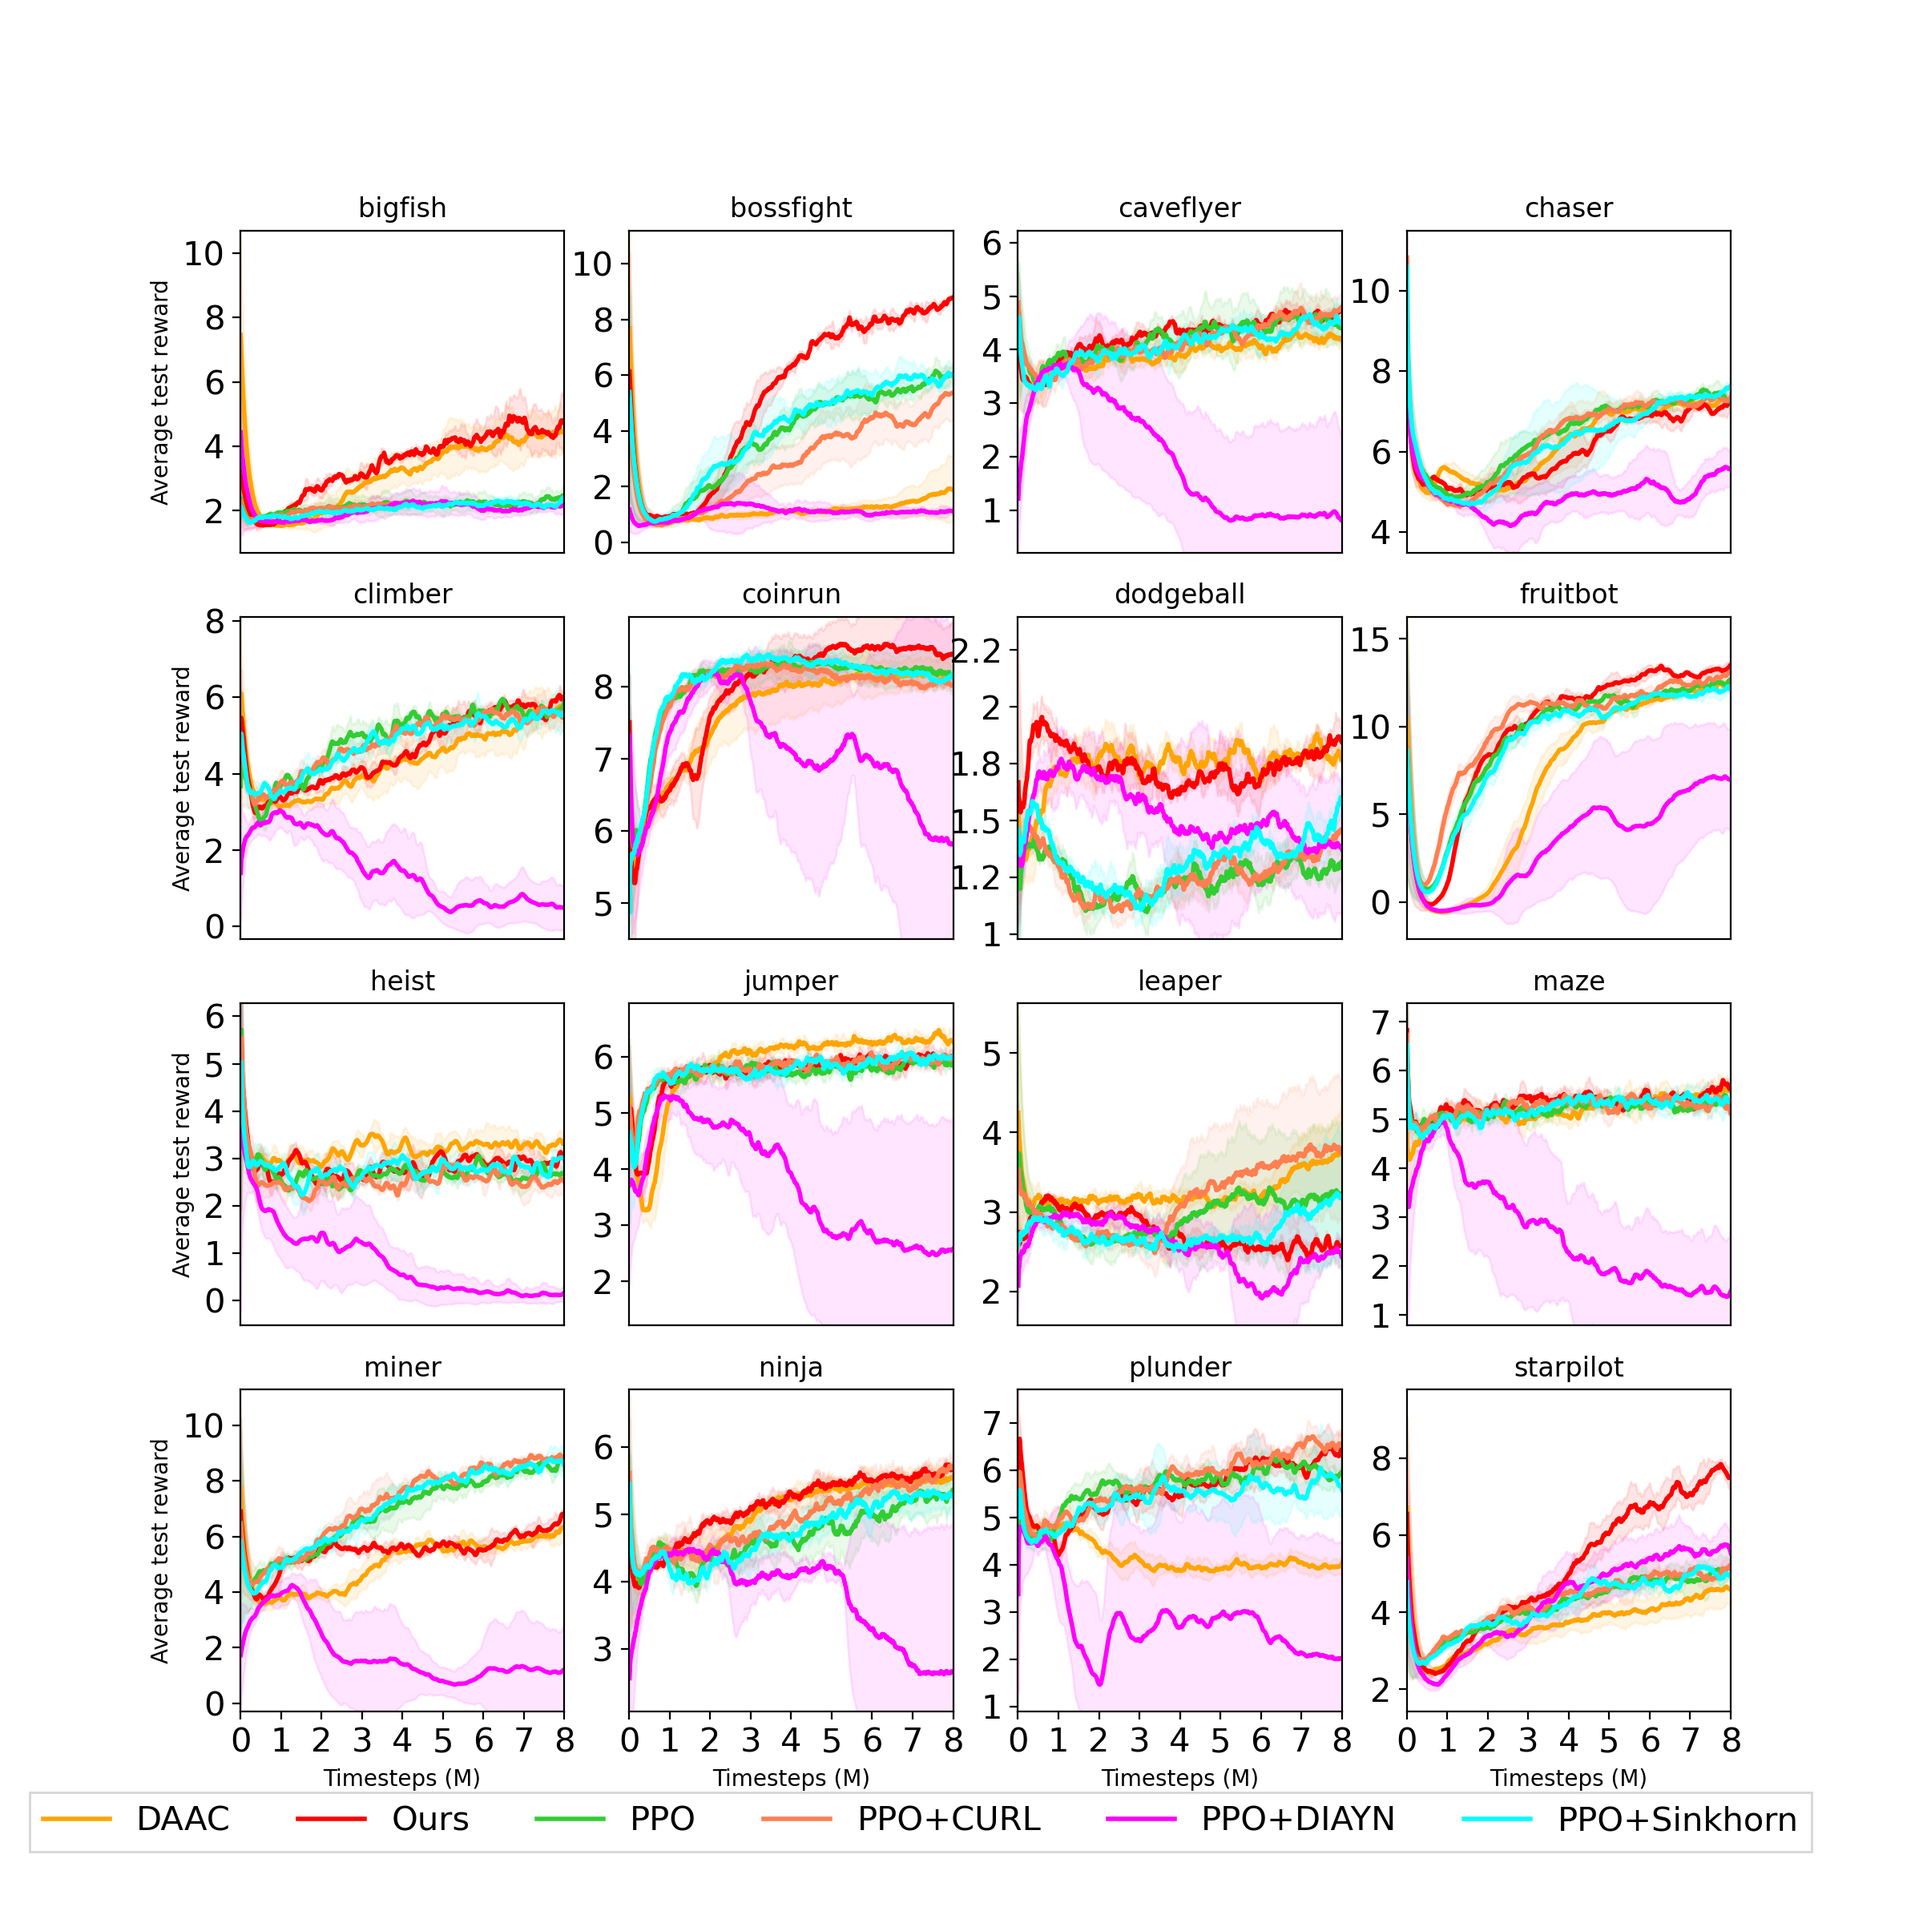
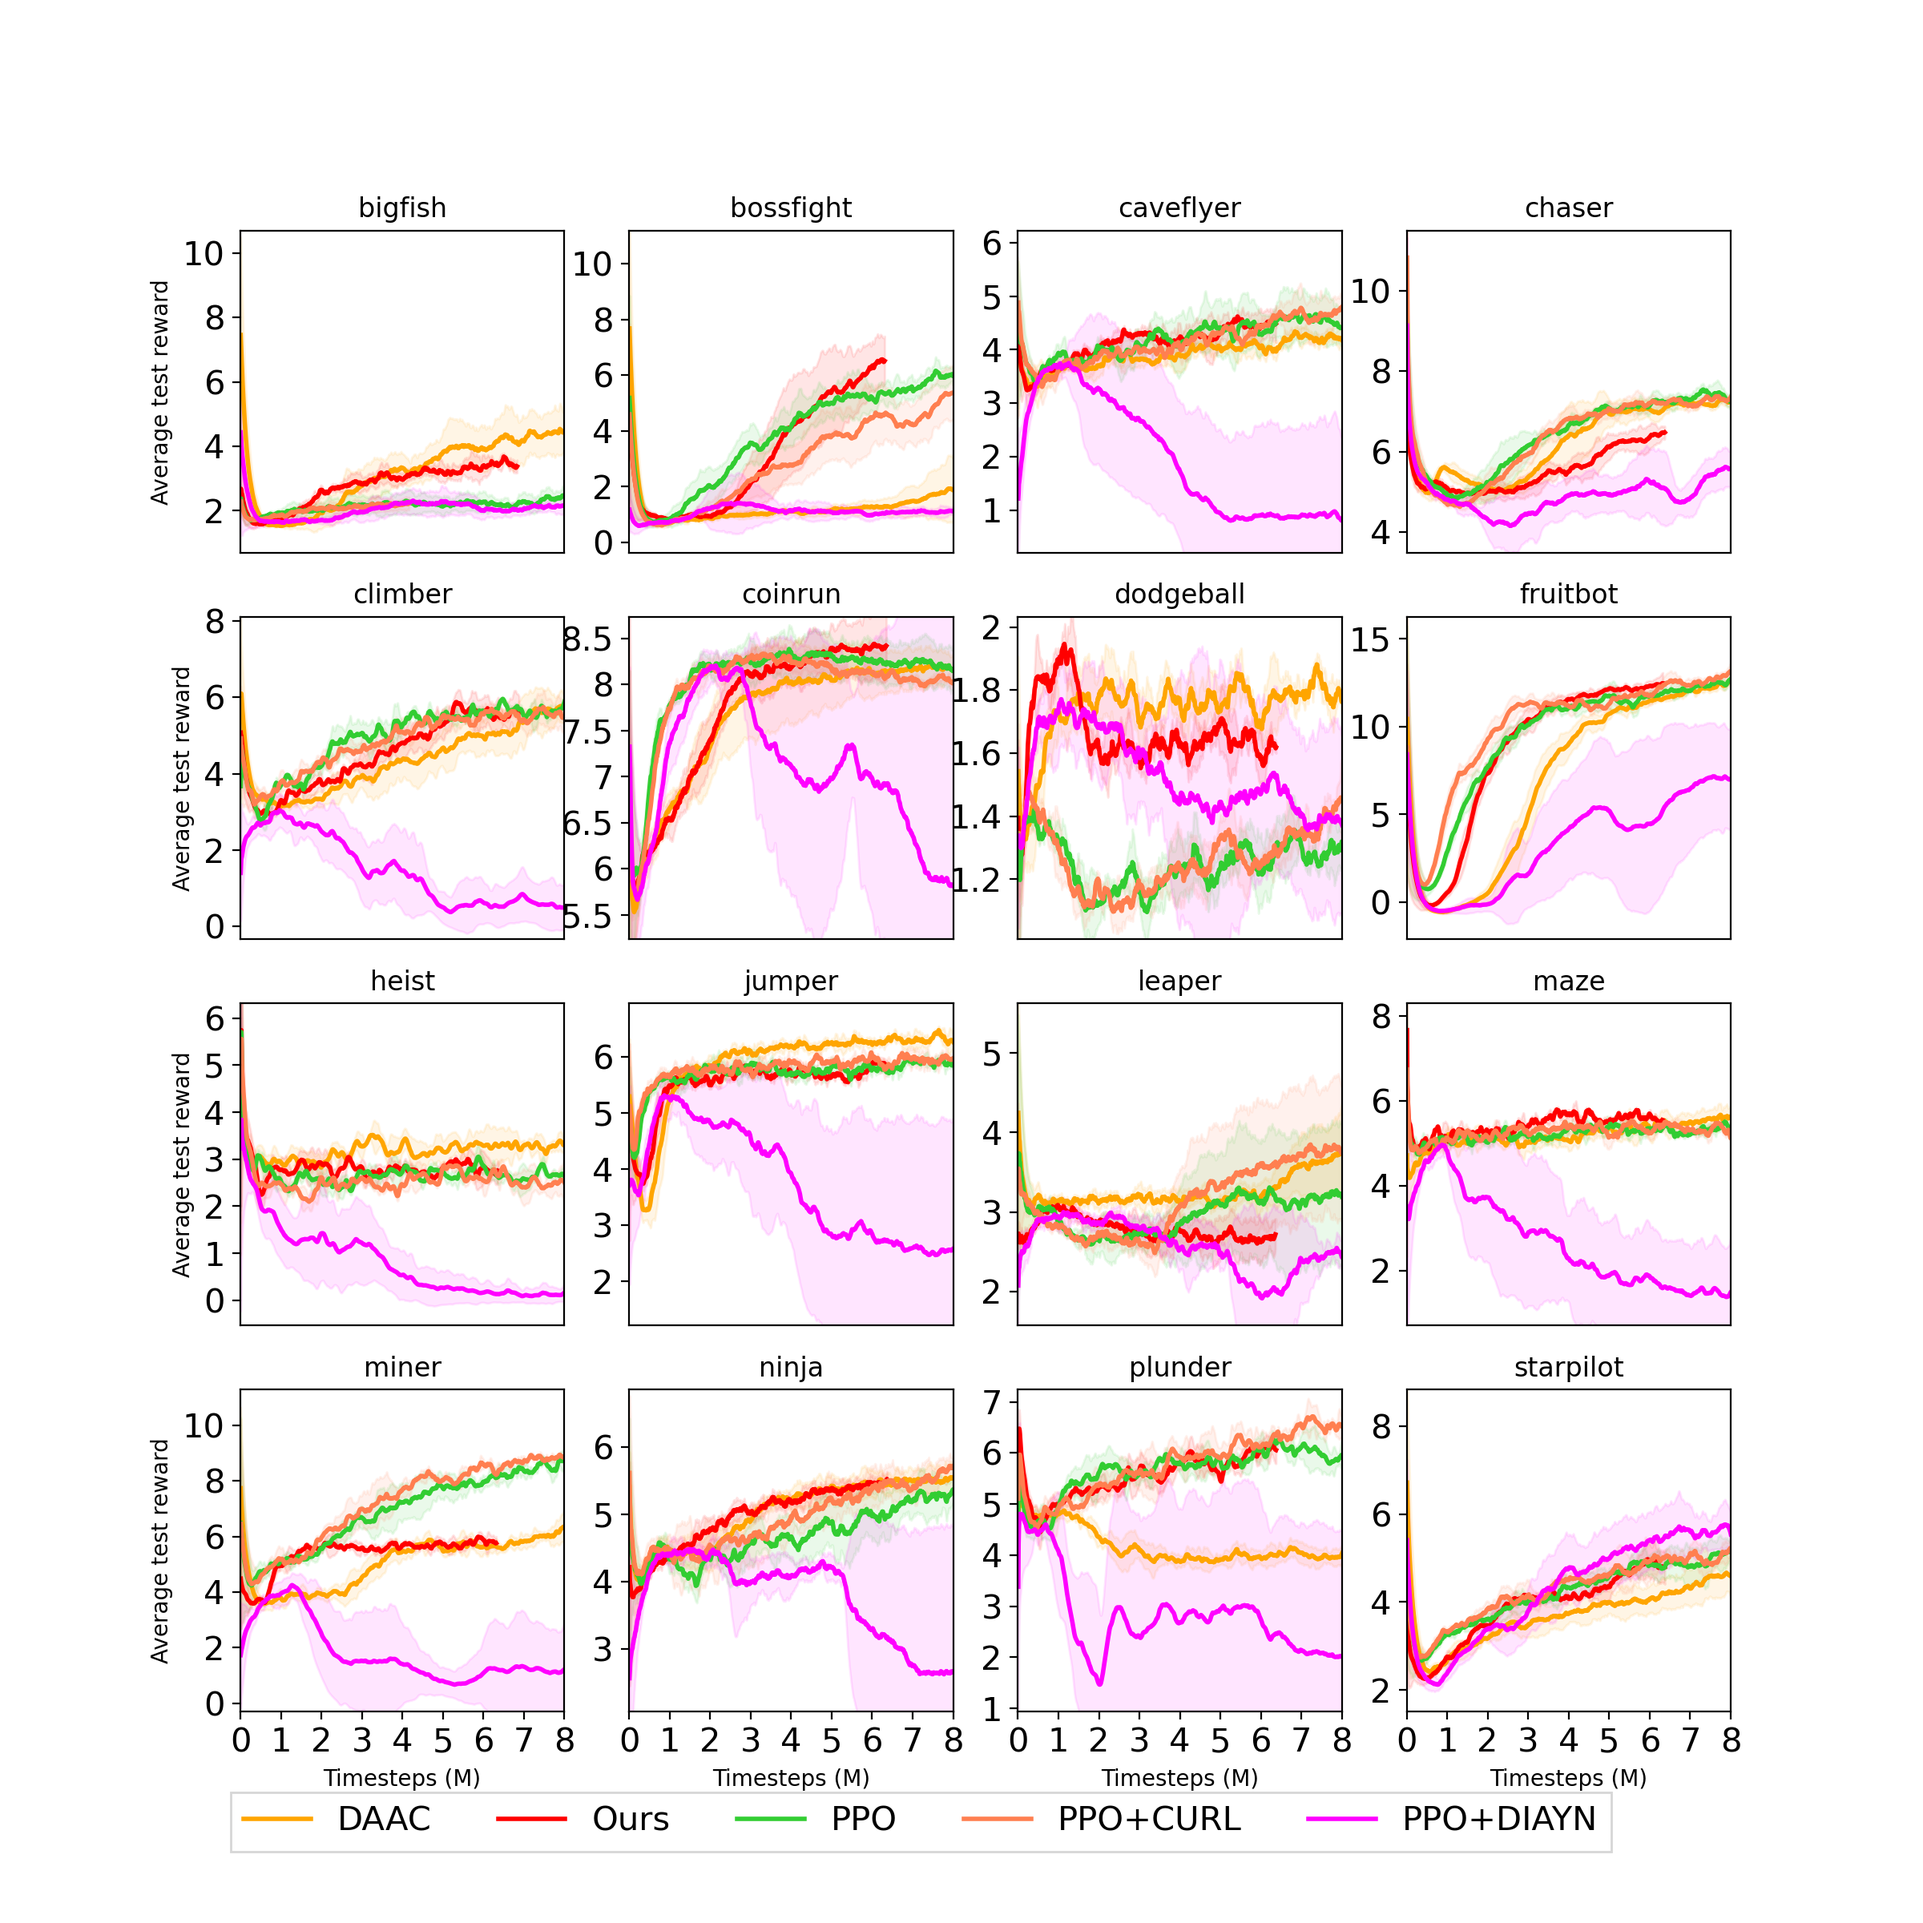
generic commit with working version

diff --git a/coinrun/coinrun/wandb_scripts/B__main_results.py b/coinrun/coinrun/wandb_scripts/B__main_results.py
@@ -14,8 +14,8 @@ from download_wandb_data import load_WandB_csvs
 AGENTS = ["ppo_goal_bogdan","ppo",'ppo_diayn',"ppo_curl",'ppo_skrl',"ppg"]
 CLEAN_NAMES_AGENTS = ['Ours',"PPO",'PPO+DIAYN',"PPO+CURL",'PPO+Sinkhorn',"DAAC"]
 
-selected_run_ids = {    
-                        'ppo_goal_bogdan':'(.*jointSKMYOW__2__3__0.300000__200.*)|(.*skrl.*)', 
+selected_run_ids = {    'ppo_goal_bogdan': '(.*May18_ablationSK.*)',
+                        # 'ppo_goal_bogdan':'(.*jointSKMYOW__2__3__0.300000__200.*)|(.*skrl.*)', 
                         # 'ppo_goal_bogdan':'(.*normUt__2__3__0.500000__200.*)|(.*skrl.*)',
                         # 'ppo_goal_bogdan':'(.*noShuffleT__2__3__0.100000__200.*)|(.*skrl.*)',
                         # 'ppo_goal_bogdan':'(.*CE_Film__2__3__0.300000__200.*)|(.*skrl.*)',
@@ -186,15 +186,16 @@ for metric in metrics:
             
         a_idx = 0
         for agent in CLEAN_NAMES_AGENTS:
-            if metric == 'eprew_eval':
-                row_str_eval += '& %.1f$\pm$%.1f ' % methods_results[agent]
-            if metric == 'eprew':
-                row_str_train += '& %.1f$\pm$%.1f ' % methods_results[agent]
-            # add best score to table of scores for normalized absolute score computation
-            if metric == 'eprew_eval':
-                reported_scores_eval[e_idx,a_idx] = methods_results[agent][0]
-            if metric == 'eprew':
-                reported_scores_train[e_idx,a_idx] = methods_results[agent][0]
+            if agent in methods_results.keys():
+                if metric == 'eprew_eval':
+                    row_str_eval += '& %.1f$\pm$%.1f ' % methods_results[agent]
+                if metric == 'eprew':
+                    row_str_train += '& %.1f$\pm$%.1f ' % methods_results[agent]
+                # add best score to table of scores for normalized absolute score computation
+                if metric == 'eprew_eval':
+                    reported_scores_eval[e_idx,a_idx] = methods_results[agent][0]
+                if metric == 'eprew':
+                    reported_scores_train[e_idx,a_idx] = methods_results[agent][0]
             a_idx += 1
 
         major_ticks = np.arange(X_LEFT, X_RIGHT+100, 1e6)

diff --git a/coinrun/coinrun/ppo2_goal_bogdan.py b/coinrun/coinrun/ppo2_goal_bogdan.py
@@ -789,7 +789,7 @@ def learn(*, policy, env, eval_env, nsteps, total_timesteps, ent_coef, lr,
             params = tf.compat.v1.trainable_variables()
             source_params = [p for p in params if "online" in p.name]
             target_params = [p for p in params if "target" in p.name]
-            soft_update(source_params, target_params, tau=0.97)
+            soft_update(source_params, target_params, tau=1)
 
 
         assert nbatch % nminibatches == 0

diff --git a/coinrun/coinrun/wandb_scripts/download_wandb_data.py b/coinrun/coinrun/wandb_scripts/download_wandb_data.py
@@ -93,8 +93,8 @@ if __name__ == "__main__":
 
     AGENTS = ["ppo_goal_bogdan",'ppo_goal',"ppo","ppo_diayn","ppg",'ppo_curl']
 
-    # METRICS = ['custom_step','eprew','eprew_eval','silhouette_score']
-    METRICS = ['cluster_similarity']
+    METRICS = ['custom_step','eprew','eprew_eval','silhouette_score']
+    # METRICS = ['cluster_similarity']
 
     runs = api.runs("ssl_rl/procgen_generalization")
     # runs = api.runs("ssl_rl/ising_generalization")
